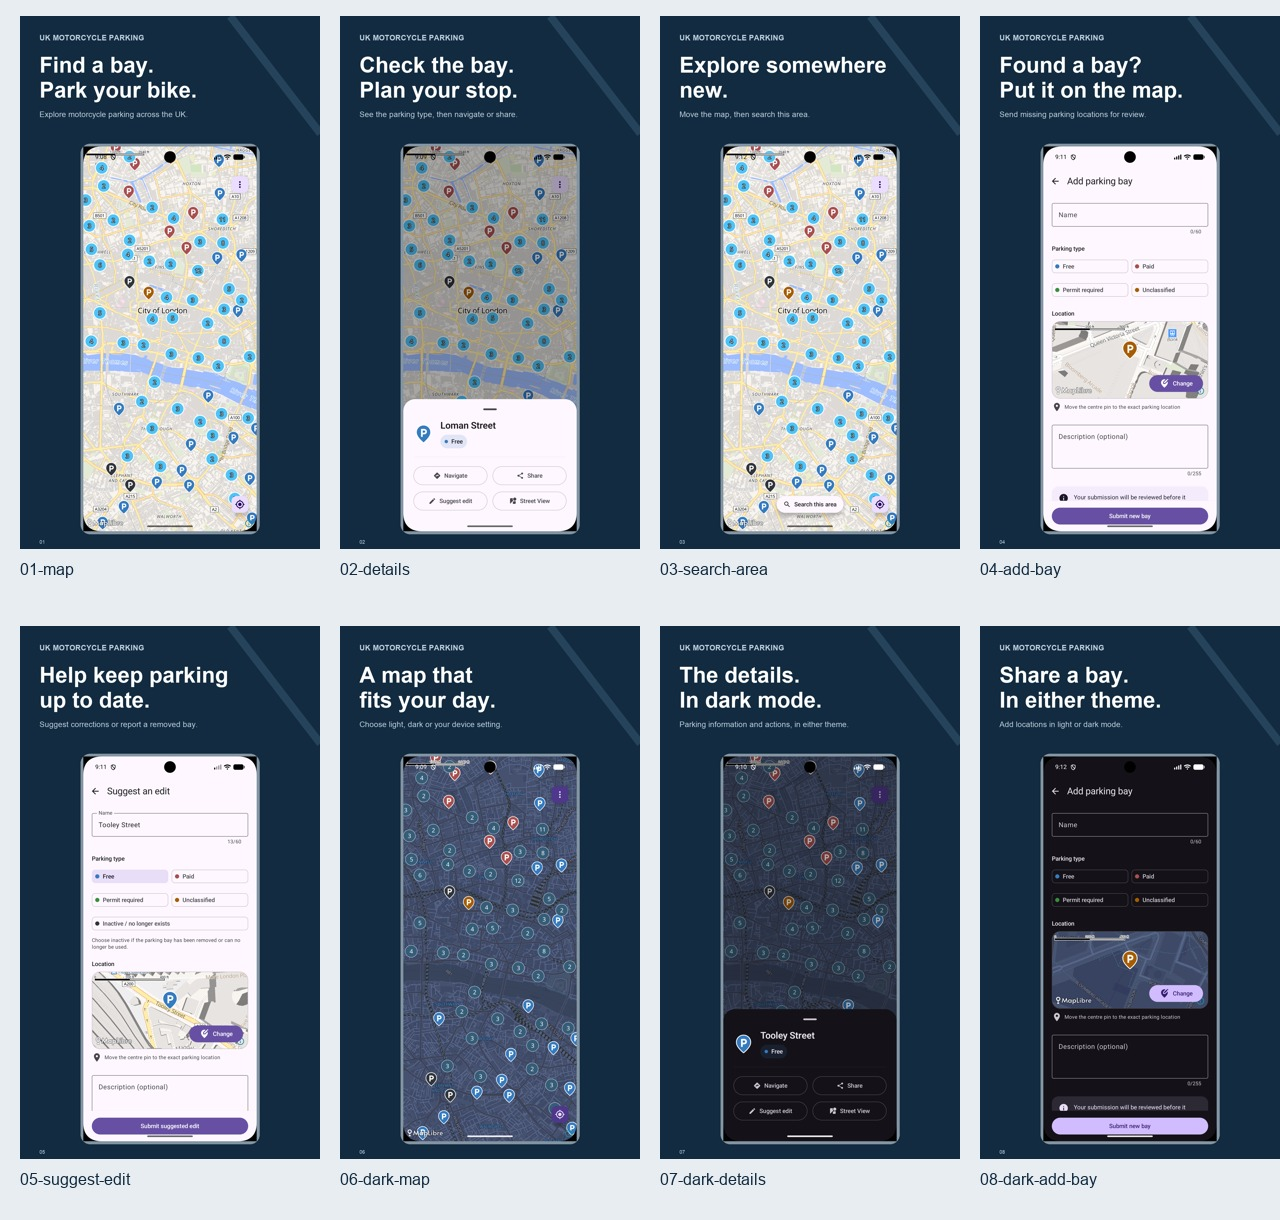
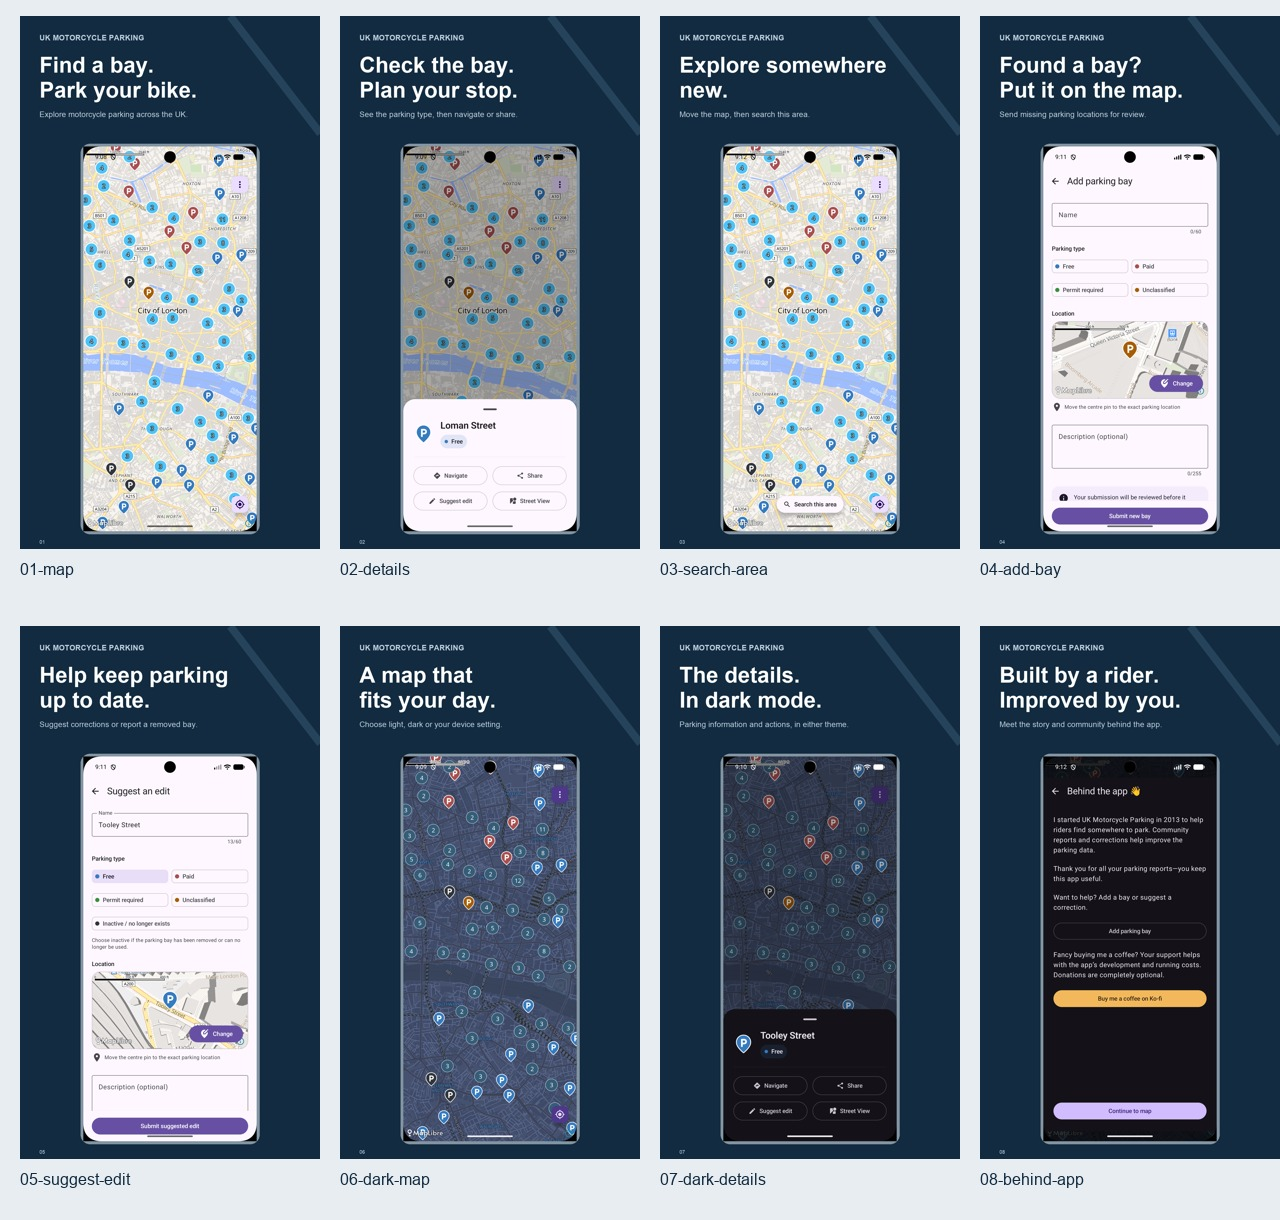
Include dark Behind the app screen in store screenshots

Changed region(s): [[0.8125, 0.623, 0.9688, 0.9344], [0.7812, 0.5295, 0.9062, 0.5918], [0.8125, 0.9656, 0.8438, 0.9967]]

diff --git a/publication/render-assets.py b/publication/render-assets.py
@@ -17,7 +17,7 @@ shots=[
  ('05-suggest-edit','Help keep parking\nup to date.','Suggest corrections or report a removed bay.'),
  ('06-dark-map','A map that\nfits your day.','Choose light, dark or your device setting.'),
  ('07-dark-details','The details.\nIn dark mode.','Parking information and actions, in either theme.'),
- ('08-dark-add-bay','Share a bay.\nIn either theme.','Add locations in light or dark mode.'),
+ ('08-behind-app','Built by a rider.\nImproved by you.','Meet the story and community behind the app.'),
 ]
 def wrap(draw,text,f,maxw):
  result=[]

diff --git a/publication/README.md b/publication/README.md
@@ -6,7 +6,7 @@ Prepared 4 October 2026; Android screenshot set updated 5 October 2026. Locale: 
 
 The store text, Google Play feature graphic, icon and **eight Android store screenshots** are prepared. The Android images were rendered from the ten captures supplied by the user on 5 October. **iPhone and iPad screenshot sets remain incomplete.** Nothing has been uploaded or submitted to either store. App release code has not been edited by the publication work. Security work is committed separately; the publication branch does not include the security implementation.
 
-Download `google-play-screenshots.zip` for the eight upload images in order. `android-screenshot-preview.jpg` is a contact sheet for review only; do not upload it as a phone screenshot. The first six slides cover distinct features; the final two show additional dark-mode screens.
+Download `google-play-screenshots.zip` for the eight upload images in order. `android-screenshot-preview.jpg` is a contact sheet for review only; do not upload it as a phone screenshot. The first six slides cover distinct features; slide seven shows dark bay details and slide eight introduces the story behind the app.
 
 ## Copy and branding
 
@@ -33,7 +33,7 @@ The design uses a navy background, clear white benefit headlines and real app ca
 | 5 | Help keep parking up to date. | Light suggested-edit form |
 | 6 | A map that fits your day. | Dark map |
 | 7 | The details. In dark mode. | Dark bay details and actions |
-| 8 | Share a bay. In either theme. | Dark add-bay form |
+| 8 | Built by a rider. Improved by you. | Behind the app in dark mode |
 
 | Export | Size | Current status |
 | --- | --- | --- |
@@ -43,7 +43,7 @@ The design uses a navy background, clear white benefit headlines and real app ca
 
 The full app captures are scaled proportionally into the navy store layout. Their UI, theme, text, data, attribution and camera cutout are retained. The supplied originals are 1080 × 2400 RGBA images; upload exports are 1080 × 1920 RGB PNGs without transparency.
 
-`render-assets.py` contains the ordered screen names and captions and reads the matching captures under `screenshots/raw/<device>/`. `asset-manifest.json` lists the generated store exports. All ten supplied originals are retained: the dark suggested-edit and Behind the app captures are alternatives, not included in the eight-slide upload ZIP. Initial diagnostic/error captures are not upload assets.
+`render-assets.py` contains the ordered screen names and captions and reads the matching captures under `screenshots/raw/<device>/`. `asset-manifest.json` lists the generated store exports. All ten supplied originals are retained: the dark suggested-edit and dark add-bay captures are alternatives, not included in the eight-slide upload ZIP. Initial diagnostic/error captures are not upload assets.
 
 ## Capture provenance
 
